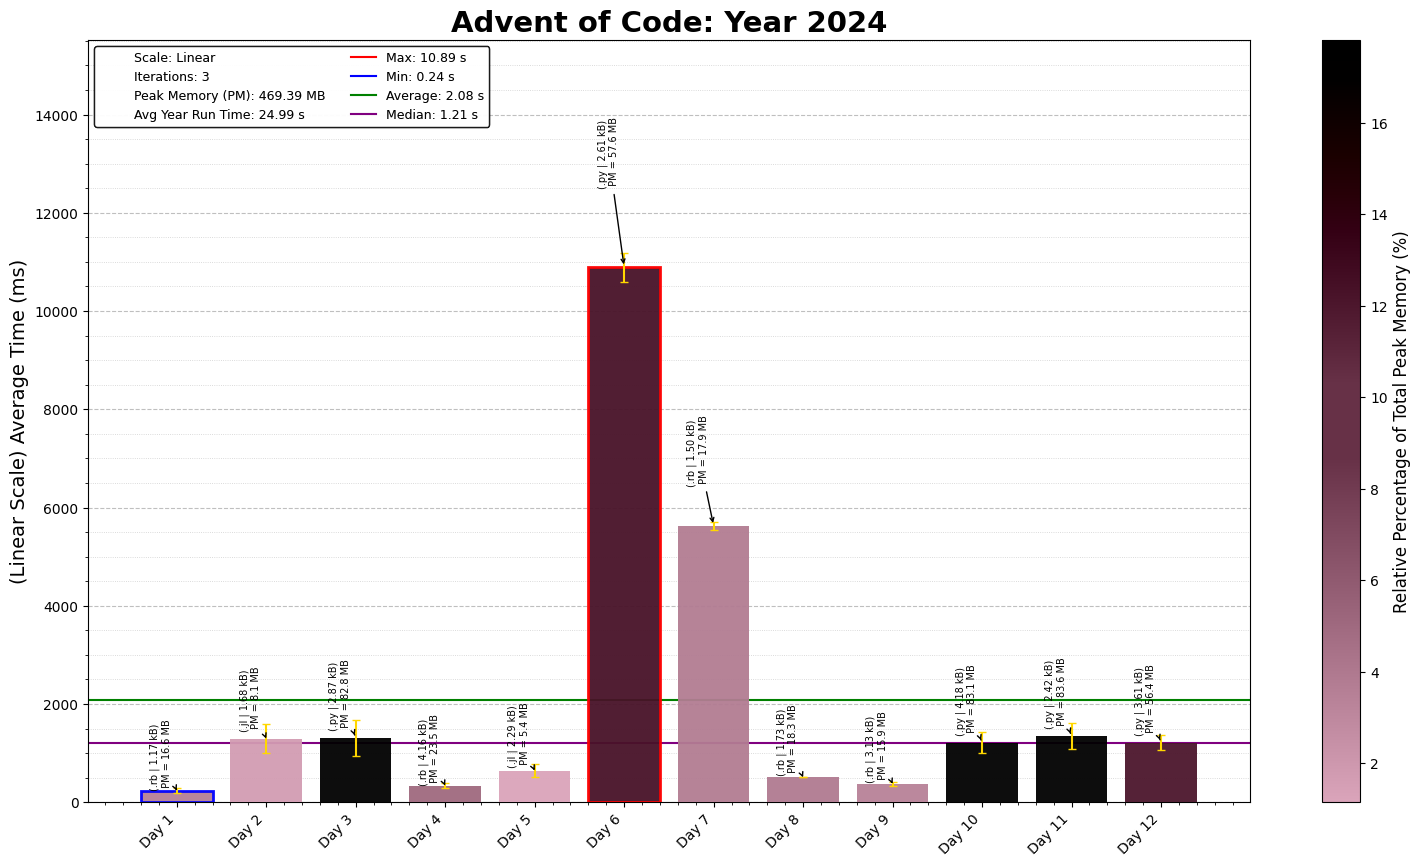
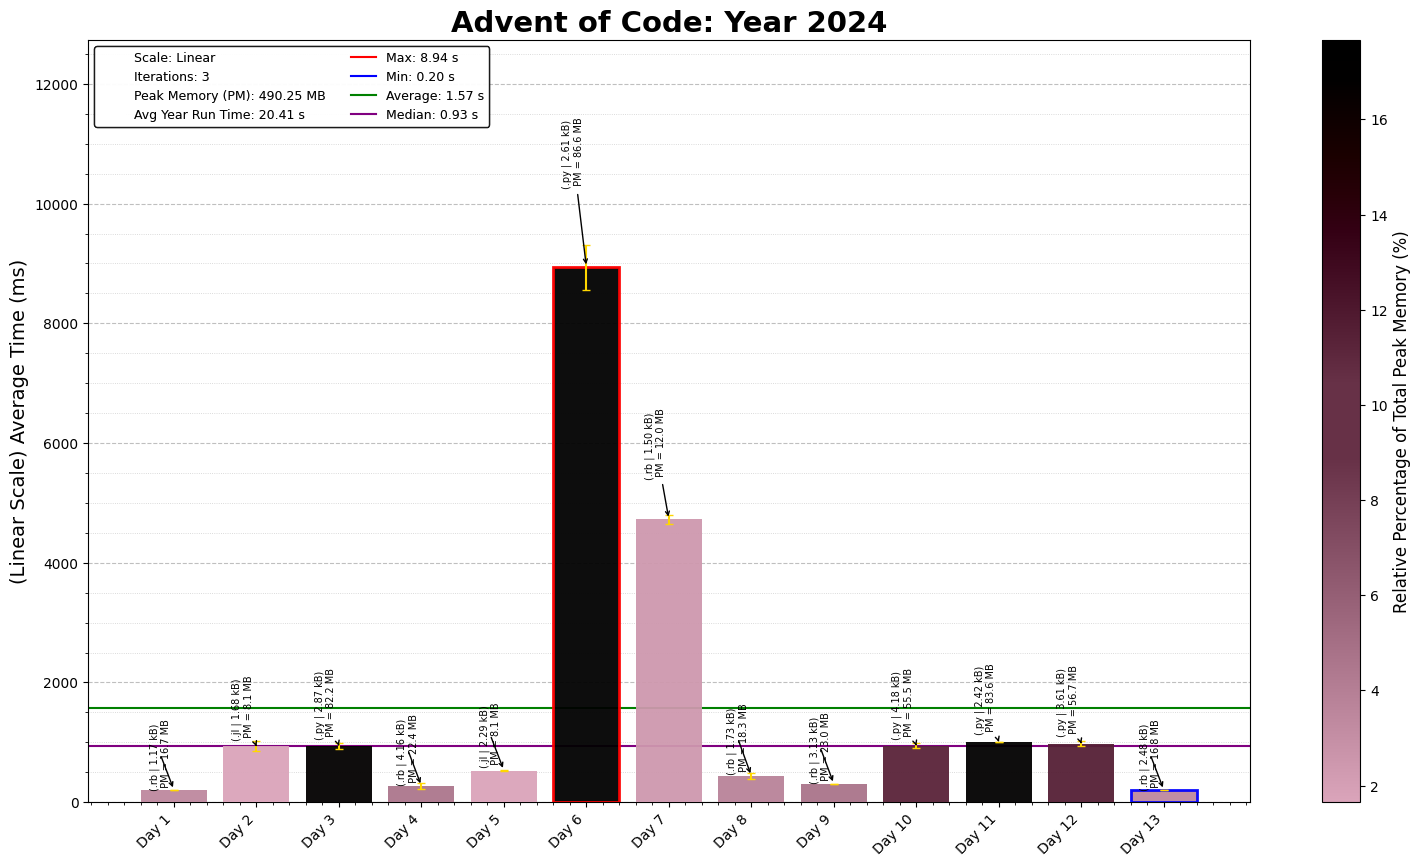
2024 Day 13

diff --git a/2024/13/Alt2024Day13.py b/2024/13/Alt2024Day13.py
@@ -1,0 +1,83 @@
+"""Advent of Code - Day 13, Year 2024
+Solution Started: Dec 13, 2024
+Puzzle Link: https://adventofcode.com/2024/day/13
+Solution by: abbasmoosajee07
+Brief: [Solving Simultaneous Equations]
+"""
+
+#!/usr/bin/env python3
+
+import os, re, copy, time
+import numpy as np
+import pandas as pd
+import matplotlib.pyplot as plt
+start = time.time()
+# Load the input data from the specified file path
+D13_file = "Day13_input.txt"
+D13_file_path = os.path.join(os.path.dirname(os.path.abspath(__file__)), D13_file)
+
+# Read and sort input data into a grid
+with open(D13_file_path) as file:
+    input_data = file.read().strip().split('\n\n')
+
+def parse_input(input_list):
+    claw_machine = {}
+    for no, machine in enumerate(input_list):
+        match = re.findall(r'\d+', machine)
+        a_x, a_y, b_x, b_y, prize_x, prize_y = map(int, match)
+        # claw_machine[no] = {'A':{'X':a_x, 'Y':a_y},
+        #                     'B': {'X': b_x, 'Y': b_y},
+        #                     'Prize':{'X':prize_x, 'Y':prize_y}}
+        claw_machine[no + 1] = {'A_x':a_x, 'A_y':a_y,
+                            'B_x':b_x, 'B_y':b_y,
+                            'Prize_x':prize_x, 'Prize_y':prize_y}
+    return claw_machine
+
+def solve_equations(prize_x, prize_y, a_x, a_y, b_x, b_y):
+
+    # Calculate the number of times to press button B (press_B)
+    numerator_b = prize_y - (prize_x * a_y / a_x)
+    denominator_b = b_y - (b_x * a_y / a_x)
+
+    if denominator_b == 0:  # Prevent division by zero
+        return 0, 0, 0
+
+    press_b = numerator_b / denominator_b
+
+    # Calculate the number of times to press button A (press_A)
+    press_a = (prize_x - press_b * b_x) / a_x
+
+    # Convert to integers for verification
+    int_a = round(press_a, 0)
+    int_b = round(press_b, 0)
+
+    # Verify if the calculated presses match the prize coordinates
+    if (int_a * a_x + int_b * b_x == prize_x) and (int_a * a_y + int_b * b_y == prize_y):
+        tokens = (3 * int_a) + int_b
+        return int_a, int_b, int(tokens)
+
+    return 0, 0, 0
+
+def calc_min_tokens(claw_machines, prize_shift = 0):
+    total_tokens = 0
+    for machine_no in claw_machines.keys():
+        test_machine = claw_machines[machine_no]
+        # Example values
+        Prize_x = test_machine['Prize_x'] + prize_shift
+        Prize_y = test_machine['Prize_y'] + prize_shift
+        A_x = test_machine['A_x']
+        A_y = test_machine['A_y']
+        B_x = test_machine['B_x']
+        B_y = test_machine['B_y']
+
+        press_A, press_B, tokens = solve_equations(Prize_x, Prize_y, A_x, A_y, B_x, B_y)
+        total_tokens += tokens
+    return total_tokens
+
+claw_dict = parse_input(input_data)
+ans_p1 = calc_min_tokens(claw_dict)
+print("Part 1:", ans_p1)
+
+ans_p2 = calc_min_tokens(claw_dict, prize_shift=10_000_000_000_000)
+print("Part 2:", ans_p2)
+print(time.time() - start)

diff --git a/2024/13/2024Day13.rb b/2024/13/2024Day13.rb
@@ -1,0 +1,91 @@
+=begin
+Advent of Code - Day 13, Year 2024
+Solution Started: Dec 13, 2024
+Puzzle Link: https://adventofcode.com/2024/day/13
+Solution by: abbasmoosajee07
+Brief: [Solving Simultaneous Equations]
+=end
+
+#!/usr/bin/env ruby
+
+require 'pathname'
+
+# Define file name and extract complete path to the input file
+D13_file = "Day13_input.txt"
+D13_file_path = Pathname.new(__FILE__).dirname + D13_file
+
+# Read the input data
+input_data = File.readlines(D13_file_path).map(&:strip)
+
+# Required Libraries
+# require 'fileutils'
+# require 'csv'
+# require 'matrix'
+
+
+# Read and sort input data into a grid
+input_data = File.read(D13_file_path).strip.split("\n\n")
+
+def parse_input(input_list)
+  claw_machine = {}
+  input_list.each_with_index do |machine, no|
+    match = machine.scan(/\d+/).map(&:to_i)
+    a_x, a_y, b_x, b_y, prize_x, prize_y = match
+    claw_machine[no + 1] = {
+      'A_x' => a_x, 'A_y' => a_y,
+      'B_x' => b_x, 'B_y' => b_y,
+      'Prize_x' => prize_x, 'Prize_y' => prize_y
+    }
+  end
+  claw_machine
+end
+
+def solve_equations(prize_x, prize_y, a_x, a_y, b_x, b_y)
+  # Calculate the number of times to press button B (press_B)
+  numerator_b = prize_y - (prize_x * a_y.to_f / a_x)
+  denominator_b = b_y - (b_x * a_y.to_f / a_x)
+
+  if denominator_b == 0  # Prevent division by zero
+    return 0, 0, 0
+  end
+
+  press_b = numerator_b / denominator_b
+
+  # Calculate the number of times to press button A (press_A)
+  press_a = (prize_x - press_b * b_x) / a_x
+
+  # Convert to integers for verification
+  int_a = press_a.round
+  int_b = press_b.round
+
+  # Verify if the calculated presses match the prize coordinates
+  if (int_a * a_x + int_b * b_x == prize_x) && (int_a * a_y + int_b * b_y == prize_y)
+    tokens = (3 * int_a) + int_b
+    return int_a, int_b, tokens
+  end
+
+  return 0, 0, 0
+end
+
+def calc_min_tokens(claw_machines, prize_shift = 0)
+  total_tokens = 0
+  claw_machines.each do |_, test_machine|
+    prize_x = test_machine['Prize_x'] + prize_shift
+    prize_y = test_machine['Prize_y'] + prize_shift
+    a_x = test_machine['A_x']
+    a_y = test_machine['A_y']
+    b_x = test_machine['B_x']
+    b_y = test_machine['B_y']
+
+    press_a, press_b, tokens = solve_equations(prize_x, prize_y, a_x, a_y, b_x, b_y)
+    total_tokens += tokens
+  end
+  total_tokens
+end
+
+claw_dict = parse_input(input_data)
+ans_p1 = calc_min_tokens(claw_dict)
+puts "Part 1: #{ans_p1}"
+
+ans_p2 = calc_min_tokens(claw_dict, 10_000_000_000_000)
+puts "Part 2: #{ans_p2}"

diff --git a/2024/README_2024.md b/2024/README_2024.md
@@ -16,3 +16,4 @@ This repository contains coding solutions for the 2024 Advent of Code. Its the f
 10. **Day 10- Hoof it**: *Python* | Simple BFS to find all valid paths on a 2d grid. Pretty standard algorithm that i adapted.
 11. **Day 11- Plutonian Pebbles**: *Python* | Exponentially increasing lists, that becomes way more easy to solve when you switch to dictionaries and counters.
 12. **Day 12- Garden Groups**: ** | Pretty simple neighbour searching algorithm, with some added complexity for finding perimeter and areas, Part 2 was kinda tough but got it in the end
+13. **Day 13- Claw Contraption**: *Ruby* | Solving simultaneous equations, fairly simple ad could have solved it far faster if i simply used round instead of int from the start, but lesson learned
